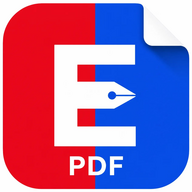
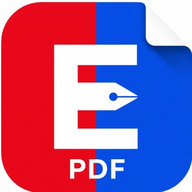
Add files via upload

Changed region(s): [[0.0, 0.0, 1.0, 1.0], [0.375, 0.2188, 0.7188, 0.4375]]

diff --git a/public/sw.js b/public/sw.js
@@ -1,0 +1,75 @@
+const CACHE_NAME = 'elimikapdf-v2';
+const PRECACHE_URLS = [
+  '/',
+  '/index.html',
+  '/manifest.webmanifest',
+  '/pwa-192x192.png',
+  '/pwa-512x512.png',
+  '/pwa-maskable-512x512.png',
+  '/apple-touch-icon.png',
+  '/assets/aistudio/WhatsApp_Image_2026-11-10_at_9.40.07_AM_beb423ac.jpeg',
+];
+
+self.addEventListener('install', (event) => {
+  self.skipWaiting();
+  event.waitUntil(
+    caches.open(CACHE_NAME).then((cache) => cache.addAll(PRECACHE_URLS).catch(() => {}))
+  );
+});
+
+self.addEventListener('activate', (event) => {
+  event.waitUntil(
+    caches
+      .keys()
+      .then((keys) =>
+        Promise.all(
+          keys.map((key) => {
+            if (key !== CACHE_NAME) {
+              return caches.delete(key);
+            }
+            return Promise.resolve();
+          })
+        )
+      )
+      .then(() => self.clients.claim())
+  );
+});
+
+self.addEventListener('fetch', (event) => {
+  const { request } = event;
+  if (request.method !== 'GET') return;
+
+  const url = new URL(request.url);
+  if (url.origin !== self.location.origin) return;
+
+  // Never intercept Vite internal modules or API download routes
+  if (
+    url.pathname.startsWith('/@vite') ||
+    url.pathname.startsWith('/@react-refresh') ||
+    url.pathname.startsWith('/src/') ||
+    url.pathname.startsWith('/node_modules/') ||
+    url.pathname.startsWith('/api/')
+  ) {
+    return;
+  }
+
+  event.respondWith(
+    fetch(request)
+      .then((response) => {
+        if (response && response.status === 200 && response.type === 'basic') {
+          const cloned = response.clone();
+          caches.open(CACHE_NAME).then((cache) => cache.put(request, cloned));
+        }
+        return response;
+      })
+      .catch(async () => {
+        const cached = await caches.match(request);
+        if (cached) return cached;
+        if (request.mode === 'navigate') {
+          const fallback = await caches.match('/index.html');
+          if (fallback) return fallback;
+        }
+        return new Response('Offline', { status: 503, statusText: 'Offline' });
+      })
+  );
+});

diff --git a/src/components/Layout.tsx b/src/components/Layout.tsx
@@ -119,7 +119,7 @@ export const Layout: React.FC<LayoutProps> = ({
             className="flex items-center gap-2.5 text-left focus:outline-none focus-visible:ring-2 focus-visible:ring-[#4A1D5E] dark:focus-visible:ring-[#9D5CE5] rounded cursor-pointer"
           >
             <img
-              src="/assets/aistudio/WhatsApp_Image_2026-11-10_at_8.49.06_AM_2a60a4c2.jpeg"
+              src="/assets/aistudio/WhatsApp_Image_2026-11-10_at_9.40.07_AM_beb423ac.jpeg"
               alt="ElimikaPDF Icon"
               className="w-8 h-8 rounded-lg object-cover shrink-0 shadow-xs"
             />
@@ -243,7 +243,7 @@ export const Layout: React.FC<LayoutProps> = ({
               className="flex items-center gap-2 text-base sm:text-lg font-bold tracking-tight text-[#14101B] dark:text-[#F4F1F8] whitespace-nowrap shrink-0 cursor-pointer focus:outline-none"
             >
               <img
-                src="/assets/aistudio/WhatsApp_Image_2026-11-10_at_8.49.06_AM_2a60a4c2.jpeg"
+                src="/assets/aistudio/WhatsApp_Image_2026-11-10_at_9.40.07_AM_beb423ac.jpeg"
                 alt="ElimikaPDF Icon"
                 className="w-7 h-7 sm:w-8 sm:h-8 rounded-lg object-cover shrink-0 shadow-xs"
               />

diff --git a/src/main.tsx b/src/main.tsx
@@ -2,15 +2,23 @@ import {createRoot} from 'react-dom/client';
 import App from './App.tsx';
 import './index.css';
 
-if (import.meta.env.DEV && 'serviceWorker' in navigator) {
-  navigator.serviceWorker.getRegistrations().then((registrations) => {
-    for (const registration of registrations) {
-      if (registration.active?.scriptURL.includes('dev-sw.js')) {
-        registration.unregister();
-      }
-    }
+if ('serviceWorker' in navigator) {
+  window.addEventListener('load', () => {
+    navigator.serviceWorker
+      .getRegistrations()
+      .then((registrations) => {
+        for (const registration of registrations) {
+          if (registration.active?.scriptURL.includes('dev-sw.js')) {
+            registration.unregister();
+          }
+        }
+      })
+      .finally(() => {
+        navigator.serviceWorker.register('/sw.js', { scope: '/' }).catch(() => {
+          // Ignore service worker registration errors in restricted preview frames
+        });
+      });
   });
 }
 
 createRoot(document.getElementById('root')!).render(<App />);
-

diff --git a/vite.config.ts b/vite.config.ts
@@ -18,7 +18,7 @@ export default defineConfig(() => {
           'pwa-512x512.png',
           'pwa-maskable-512x512.png',
           'elimikapdf-icon.png',
-          'assets/aistudio/WhatsApp_Image_2026-11-10_at_8.49.06_AM_2a60a4c2.jpeg',
+          'assets/aistudio/WhatsApp_Image_2026-11-10_at_9.40.07_AM_beb423ac.jpeg',
           'screenshot-mobile.png',
           'screenshot-desktop.png',
         ],
@@ -59,7 +59,7 @@ export default defineConfig(() => {
               purpose: 'maskable',
             },
             {
-              src: 'assets/aistudio/WhatsApp_Image_2026-11-10_at_8.49.06_AM_2a60a4c2.jpeg',
+              src: 'assets/aistudio/WhatsApp_Image_2026-11-10_at_9.40.07_AM_beb423ac.jpeg',
               sizes: '512x512',
               type: 'image/jpeg',
               purpose: 'any',

diff --git a/index.html b/index.html
@@ -14,7 +14,8 @@
     <meta name="apple-mobile-web-app-capable" content="yes" />
     <meta name="apple-mobile-web-app-status-bar-style" content="black-translucent" />
     <meta name="apple-mobile-web-app-title" content="ElimikaPDF" />
-    <link rel="icon" type="image/jpeg" href="/assets/aistudio/WhatsApp_Image_2026-11-10_at_8.49.06_AM_2a60a4c2.jpeg" />
+    <link rel="icon" type="image/jpeg" sizes="512x512" href="/assets/aistudio/WhatsApp_Image_2026-11-10_at_9.40.07_AM_beb423ac.jpeg" />
+    <link rel="icon" type="image/png" sizes="192x192" href="/pwa-192x192.png" />
     <link rel="apple-touch-icon" sizes="180x180" href="/apple-touch-icon.png" />
     <link rel="manifest" href="/manifest.webmanifest" />
     <link rel="preconnect" href="https://fonts.googleapis.com" />

diff --git a/src/components/SettingsAndHelpView.tsx b/src/components/SettingsAndHelpView.tsx
@@ -117,7 +117,7 @@ export const SettingsView: React.FC<SettingsViewProps> = ({
           <div className="space-y-1">
             <div className="flex items-center gap-3">
               <img
-                src="/assets/aistudio/WhatsApp_Image_2026-11-10_at_8.49.06_AM_2a60a4c2.jpeg"
+                src="/assets/aistudio/WhatsApp_Image_2026-11-10_at_9.40.07_AM_beb423ac.jpeg"
                 alt="ElimikaPDF Icon"
                 className="w-10 h-10 rounded-xl object-cover shadow-xs shrink-0"
               />

diff --git a/src/components/PWAInstallPrompt.tsx b/src/components/PWAInstallPrompt.tsx
@@ -14,7 +14,7 @@ import {
 import { usePWAInstall, useOnlineStatus } from '../hooks/usePWAInstall';
 
 const ELIMIKA_ICON_URL =
-  '/assets/aistudio/WhatsApp_Image_2026-11-10_at_8.49.06_AM_2a60a4c2.jpeg';
+  '/assets/aistudio/WhatsApp_Image_2026-11-10_at_9.40.07_AM_beb423ac.jpeg';
 
 export function PWAInstallButton({
   variant = 'header',
